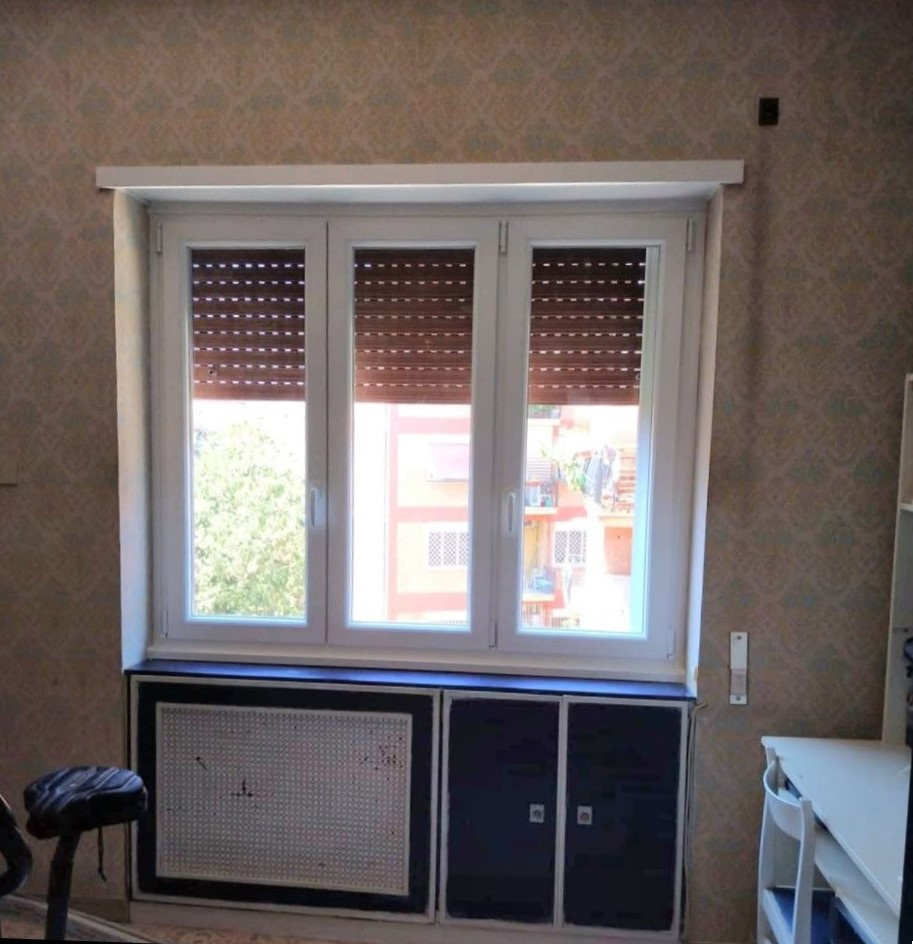
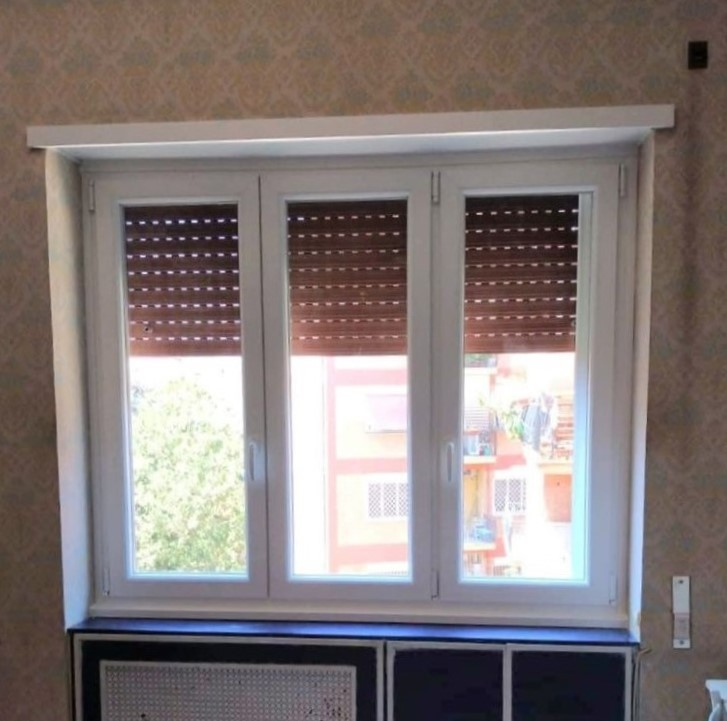
I nostri lavori Commit 1

diff --git a/styles.css b/styles.css
@@ -90,13 +90,24 @@ footer {
     color: rgb(255, 255, 255);  /* Colore del testo nel footer */
 }
 
-/* Chi siamo image 1 */
+                             /*   S    E    Z    I    O    N   E   -   C   H   I      S   I   A   M   O    */
+
+
+/* Barra orizzontale */
+.horizontal-bar {
+    width: 100%;
+    height: 14px; /* Altezza della barra */
+    background-color: #c19a6b; /* Colore della barra */
+    margin: 40px auto; /* Margine sopra e sotto */
+}                                          
+
+/* Image 1 */
 .hero-banner {
-    background-image: url('C:/Users/utente/Desktop/infissi-rocchi/images/sfondo.png'); /* Percorso dell'immagine */
-    background-size: 600px; /* Adatta l'immagine all'area */
+    background-image: url('C:/Users/utente/Desktop/infissi-rocchi/images/lavori/finestra7.jpeg'); /* Percorso dell'immagine */
+    background-size: 550px; /* Adatta l'immagine all'area */
     background-position: left; /* Centra l'immagine */
     background-repeat: no-repeat; /* Evita la ripetizione dell'immagine */
-    padding: 70px; /* Spazio interno per il contenuto */
+    padding: 100px; /* Spazio interno per il contenuto */
 }
 
 .hero-banner h2 {
@@ -105,7 +116,7 @@ footer {
     color: #333; /* Colore del testo */
 }
 
-/* Chi siamo image 2 */
+/* Image 2 */
 .hero-banner2 {
     background-image: url('C:/Users/utente/Desktop/infissi-rocchi/images/lavori/tenda2.jpeg'); /* Percorso dell'immagine */
     background-size: 600px; /* Adatta l'immagine all'area */
@@ -119,7 +130,7 @@ footer {
     padding-right: 650px; /* Aggiungi spazio tra immagine e testo */
     color: #333; /* Colore del testo */
 }
-/* Chi siamo image 3 */
+/* Image 3 */
 .hero-banner3 {
     background-image: url('C:/Users/utente/Desktop/infissi-rocchi/images/lavori/finestra5.jpeg'); /* Percorso dell'immagine */
     background-size: 500px; /* Adatta l'immagine all'area */
@@ -132,4 +143,61 @@ footer {
     margin: 50; /* Rimuovi il margine predefinito */
     padding-left: 550px; /* Aggiungi spazio tra immagine e testo */
     color: #333; /* Colore del testo */
+}
+
+
+                        /*   S    E    Z    I    O    N   E   -   I      N   O   S   T   R   I     L   A   V   O   R   I    */
+
+/* Contenitore principale del carousel */
+.carousel-container {
+    position: relative; /* Permette di posizionare i pulsanti (prev e next) in modo assoluto rispetto al contenitore */
+    max-width: 35%; /* Imposta la larghezza massima del carousel al % della pagina */
+    margin: 20px auto; /* Centro il contenitore orizzontalmente e aggiunge un margine verticale */
+    overflow: hidden; /* Nasconde le immagini che escono dai bordi del contenitore */
+    border: 0px solid #ddd; /* Aggiunge un bordo grigio per il design */
+    border-radius: 28px; /* Arrotonda gli angoli del contenitore */
+    height: 485px; /* Imposta un'altezza fissa per il carosello */
+}
+
+/* Contenitore delle immagini all'interno del carousel */
+.carousel {
+    display: flex; /* Dispone le immagini una accanto all'altra in fila orizzontale */
+    transition: transform 0.3s ease-in-out; /* Aggiunge un'animazione fluida per gli spostamenti del carousel */
+}
+
+/* Stile per le immagini all'interno del carousel */
+.carousel img {
+    flex-shrink: 0; /* Impedisce che le immagini si riducano più del necessario */
+    width: 100%; /* Ogni immagine occuperà il 100% della larghezza del contenitore */
+    height: 100%; /* Ogni immagine occuperà il 100% dell'altezza del contenitore */
+    object-fit: cover; /* L'immagine riempie lo spazio mantenendo le proporzioni */
+}
+
+/* Pulsanti di navigazione (freccia sinistra e destra) */
+.prev-btn, .next-btn {
+    position: absolute; /* Posiziona i pulsanti sopra il contenitore in punti specifici */
+    top: 50%; /* Centra verticalmente i pulsanti */
+    transform: translateY(-50%); /* Corregge l'allineamento verticale dei pulsanti */
+    background-color: rgba(0, 0, 0, 0.5); /* Colore di sfondo nero semitrasparente */
+    color: white; /* Colore del testo o dell'icona all'interno del pulsante */
+    border: none; /* Rimuove i bordi predefiniti del pulsante */
+    cursor: pointer; /* Cambia il cursore a una mano per indicare che il pulsante è cliccabile */
+    padding: 10px; /* Aggiunge un'area cliccabile intorno al contenuto del pulsante */
+    z-index: 10; /* Garantisce che i pulsanti rimangano sopra le immagini */
+    border-radius: 50%; /* Rende i pulsanti rotondi */
+}
+
+/* Pulsante sinistro (prev) */
+.prev-btn {
+    left: 10px; /* Posiziona il pulsante a sinistra rispetto al bordo del contenitore */
+}
+
+/* Pulsante destro (next) */
+.next-btn {
+    right: 10px; /* Posiziona il pulsante a destra rispetto al bordo del contenitore */
+}
+
+/* Effetto hover sui pulsanti di navigazione */
+.prev-btn:hover, .next-btn:hover {
+    background-color: #000; /* Cambia lo sfondo a nero pieno quando il mouse passa sopra il pulsante */
 }

diff --git a/index.html b/index.html
@@ -42,7 +42,8 @@
     <!-- Sezione Chi Siamo -->
     <section id="about">
             <h1>Benvenuti da Rocchi Infissi</h1>
-            <h2>Da oltre 40 anni, qualità e innovazione per la tua casa e il tuo business.</h2>  
+            <h2>Da oltre 40 anni, qualità e innovazione per la tua casa e il tuo business.</h2>
+            <div class="horizontal-bar"></div>
             <div class="hero-banner"> 
                 <h2>Fondata negli anni '80 come azienda</h2>
                 <h2>specializzata nella lavorazione di</h2>
@@ -71,16 +72,33 @@
             </div>
         </section>
 
-    <!-- Sezione I nostri lavori -->
-    <section id="lavori">
-        <h1>I Nostri Lavori</h1>
-        <ul style="text-align: left; display: inline-block;">
-            <li>Installazione di infissi in PVC e alluminio.</li>
-            <li>Riparazione e manutenzione.</li>
-            <li>Consulenza personalizzata.</li>
-            <li>Soluzioni di design per interni ed esterni.</li>
-        </ul>
-    </section>
+<!-- Sezione I nostri lavori -->
+<section id="lavori">
+    <h1>I Nostri Lavori</h1>
+    <!-- Carousel con immagini -->
+    <div class="carousel-container">
+        <button class="prev-btn">&lt;</button>
+        <div class="carousel">
+            <img src="C:/Users/utente/Desktop/infissi-rocchi/images/lavori/tenda.jpeg" alt="Lavoro 1">
+            <img src="C:/Users/utente/Desktop/infissi-rocchi/images/lavori/finestra2.jpeg" alt="Lavoro 2">
+            <img src="C:/Users/utente/Desktop/infissi-rocchi/images/lavori/finestra4.jpeg" alt="Lavoro 3">
+            <img src="C:/Users/utente/Desktop/infissi-rocchi/images/lavori/armadietto2.jpeg" alt="Lavoro 4">
+            <img src="C:/Users/utente/Desktop/infissi-rocchi/images/lavori/finestra9.jpeg" alt="Lavoro 5">
+            <img src="C:/Users/utente/Desktop/infissi-rocchi/images/lavori/finestra.jpeg" alt="Lavoro 6">
+            <img src="C:/Users/utente/Desktop/infissi-rocchi/images/lavori/armadietto.jpeg" alt="Lavoro 7">
+            <img src="C:/Users/utente/Desktop/infissi-rocchi/images/lavori/tenda3.jpeg" alt="Lavoro 8">
+        </div>
+        <button class="next-btn">&gt;</button>
+    </div>
+
+    <ul style="text-align: left; display: inline-block;">
+        <li>Installazione di infissi in PVC e alluminio.</li>
+        <li>Riparazione e manutenzione.</li>
+        <li>Consulenza personalizzata.</li>
+        <li>Soluzioni di design per interni ed esterni.</li>
+    </ul>
+</section>
+
 
         <!-- Sezione Richiedi Un Preventivo -->
         <section id="preventivo">

diff --git a/script.js b/script.js
@@ -14,3 +14,29 @@ function showSection(sectionId) {
         sectionToShow.classList.add('active');
     }
 }
+
+
+// Carosello immagini I Nostri Lavori
+const carousel = document.querySelector('.carousel');
+const prevBtn = document.querySelector('.prev-btn');
+const nextBtn = document.querySelector('.next-btn');
+
+let currentIndex = 0;
+
+function updateCarousel() {
+  const imageWidth = carousel.querySelector('img').clientWidth;
+  const offset = -currentIndex * (imageWidth); // Calcola l'offset
+  carousel.style.transform = `translateX(${offset}px)`; // Sposta il carosello
+}
+
+nextBtn.addEventListener('click', () => {
+  const totalImages = carousel.querySelectorAll('img').length;
+  currentIndex = (currentIndex + 1) % totalImages; // Vai alla prossima immagine
+  updateCarousel();
+});
+
+prevBtn.addEventListener('click', () => {
+  const totalImages = carousel.querySelectorAll('img').length;
+  currentIndex = (currentIndex - 1 + totalImages) % totalImages; // Torna alla precedente
+  updateCarousel();
+});
